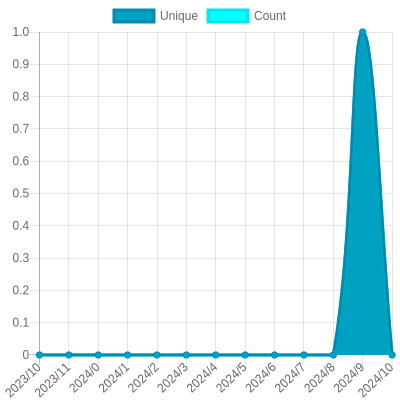
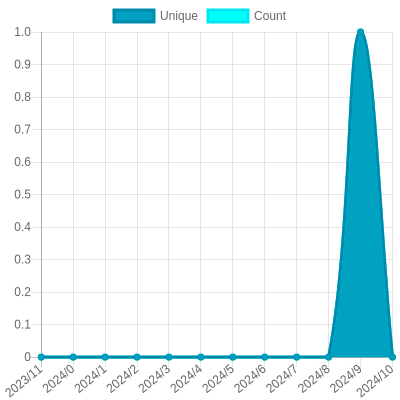
Update views

diff --git a/README.md b/README.md
@@ -26,7 +26,7 @@ The project created and maintained by [gayanvoice](https://github.com/gayanvoice
 			</a>
 		</td>
 		<td>
-			2023/11/28 1:07 AM UTC
+			2023/11/29 1:07 AM UTC
 		</td>
 		<td>
 			1
@@ -37,7 +37,7 @@ The project created and maintained by [gayanvoice](https://github.com/gayanvoice
 	</tr>
 </table>
 
-<small><i>Last updated on 2023/11/30 6:19 PM UTC</i></small>
+<small><i>Last updated on 2023/12/1 1:12 AM UTC</i></small>
 
 ## ✂Copy and 📋 Paste
 ### Total Views Badge

diff --git a/readme/706229382/year.md b/readme/706229382/year.md
@@ -150,21 +150,10 @@
 			<code>0</code>
 		</td>
 	</tr>
-	<tr>
-		<td>
-			<code>2022/11/1</code>
-		</td>
-		<td>
-			<code>0</code>
-		</td>
-		<td>
-			<code>0</code>
-		</td>
-	</tr>
 </table>
 
 </details>
-<small><i>Last updated on 2023/11/30 6:19 PM UTC</i></small>
+<small><i>Last updated on 2023/12/1 1:12 AM UTC</i></small>
 
 ## ✂Copy and 📋 Paste
 ### SVG Badge
